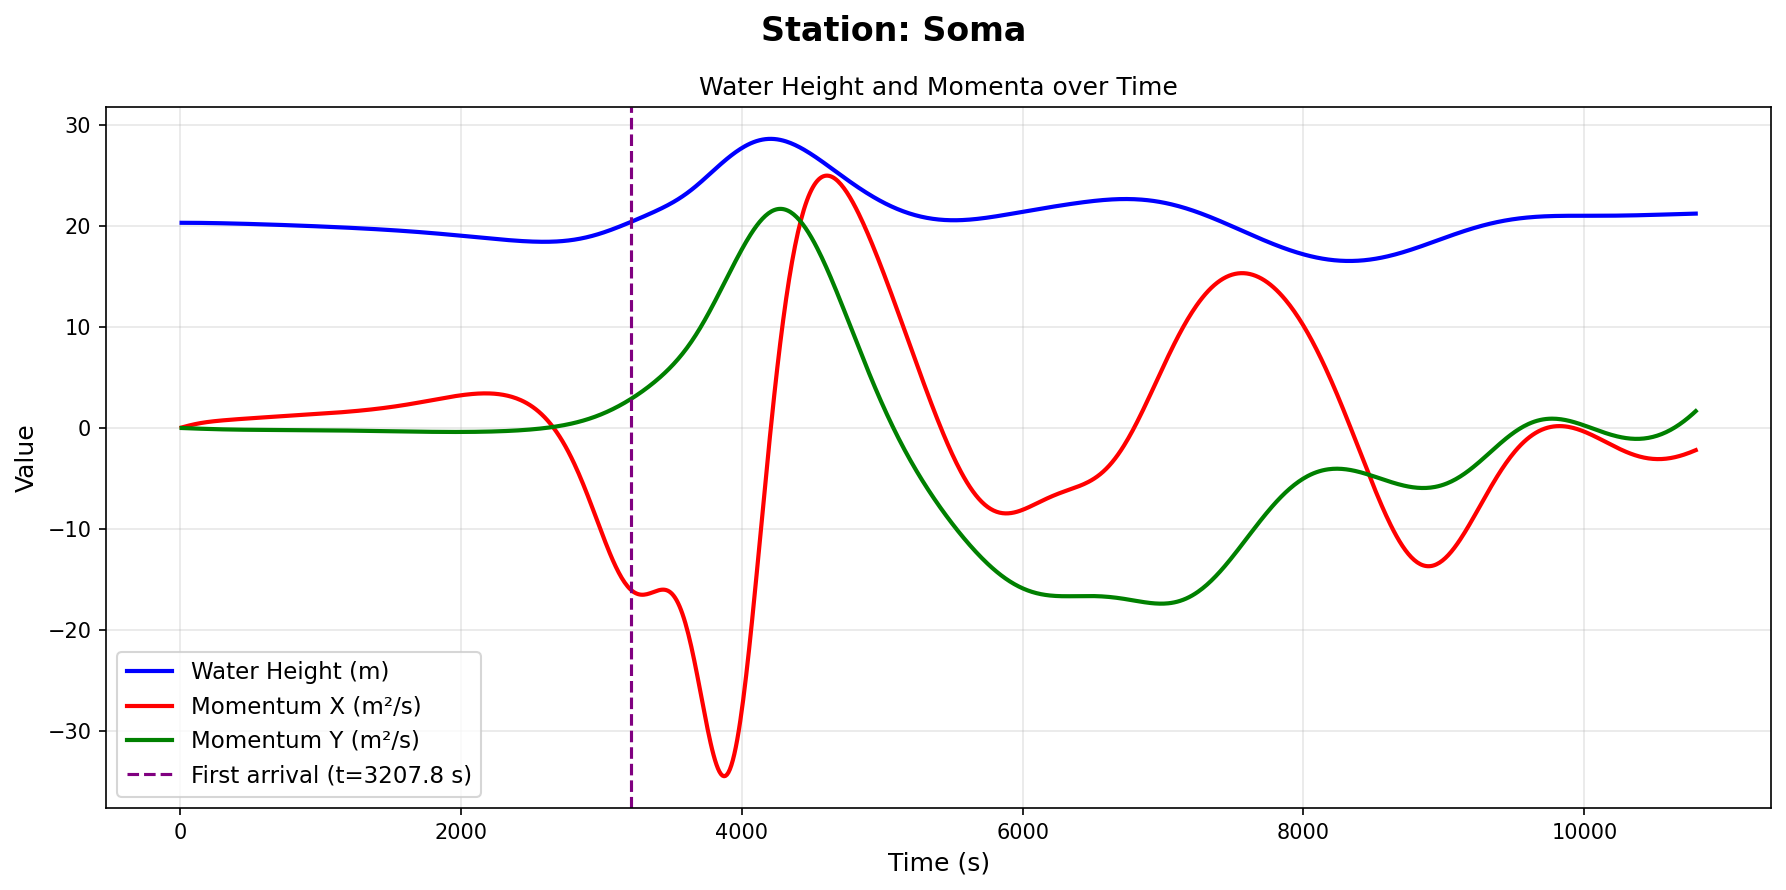
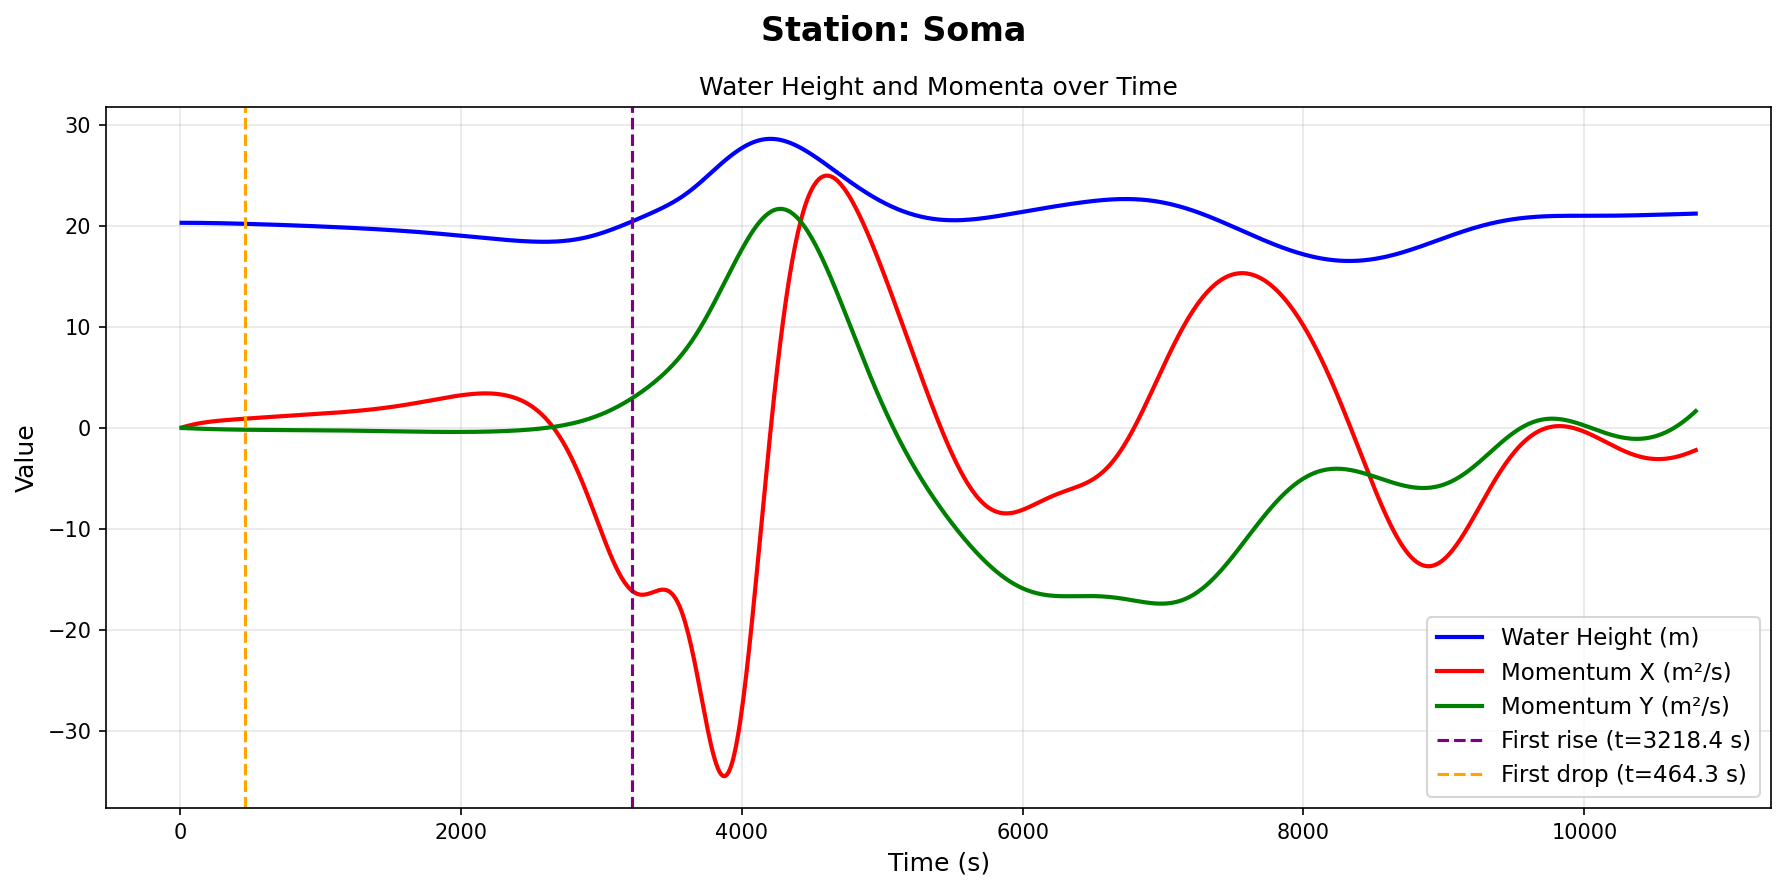
fix: modify plotting script to register downward changes

Changed region(s): [[0.8007, 0.6978, 0.9854, 0.8798], [0.0616, 0.7281, 0.2772, 0.9101]]

diff --git a/scripts/plot_stations.py b/scripts/plot_stations.py
@@ -10,9 +10,9 @@ import matplotlib.pyplot as plt
 from pathlib import Path
 
 
-def find_first_arrival(times, heights, margin=0.05):
+def find_first_arrivals(times, heights, margin=0.1):
     """
-    Return the time at which water height first exceeds initial value + margin.
+    Return the first times at which water height exceeds initial value by +/- margin.
 
     Parameters:
     -----------
@@ -21,21 +21,22 @@ def find_first_arrival(times, heights, margin=0.05):
     heights : array-like
         Water height values
     margin : float
-        Threshold above initial water height to consider as arrival
+        Threshold above/below initial water height to consider as an arrival
 
-    Returns the arrival time, or None if the threshold is never exceeded.
+    Returns a tuple (rise_time, drop_time), each being the first time the
+    threshold is crossed in that direction, or None if never crossed.
     """
     if len(heights) == 0:
-        return None
+        return None, None
     initial = heights.iloc[0]
-    threshold = initial + margin
-    mask = heights > threshold
-    if not mask.any():
-        return None
-    return times[mask.idxmax()]
+    rise_mask = heights > initial + margin
+    drop_mask = heights < initial - margin
+    rise_time = times[rise_mask.idxmax()] if rise_mask.any() else None
+    drop_time = times[drop_mask.idxmax()] if drop_mask.any() else None
+    return rise_time, drop_time
 
 
-def plot_station_data(output_dir="./stations/output", save_dir="./stations/plots", arrival_margin=0.05):
+def plot_station_data(output_dir="./stations/output", save_dir="./stations/plots", arrival_margin=0.1):
     """
     Read all CSV files in the output directory and create plots for each station.
     
@@ -83,10 +84,13 @@ def plot_station_data(output_dir="./stations/output", save_dir="./stations/plots
             ax.plot(df['time'], df['momentum_x'], 'r-', linewidth=2, label='Momentum X (m²/s)')
             ax.plot(df['time'], df['momentum_y'], 'g-', linewidth=2, label='Momentum Y (m²/s)')
 
-            arrival_time = find_first_arrival(df['time'], df['water_height'], margin=arrival_margin)
-            if arrival_time is not None:
-                ax.axvline(x=arrival_time, color='purple', linestyle='--', linewidth=1.5,
-                           label=f'First arrival (t={arrival_time:.1f} s)')
+            rise_time, drop_time = find_first_arrivals(df['time'], df['water_height'], margin=arrival_margin)
+            if rise_time is not None:
+                ax.axvline(x=rise_time, color='purple', linestyle='--', linewidth=1.5,
+                           label=f'First rise (t={rise_time:.1f} s)')
+            if drop_time is not None:
+                ax.axvline(x=drop_time, color='orange', linestyle='--', linewidth=1.5,
+                           label=f'First drop (t={drop_time:.1f} s)')
 
             ax.set_xlabel('Time (s)', fontsize=12)
             ax.set_ylabel('Value', fontsize=12)